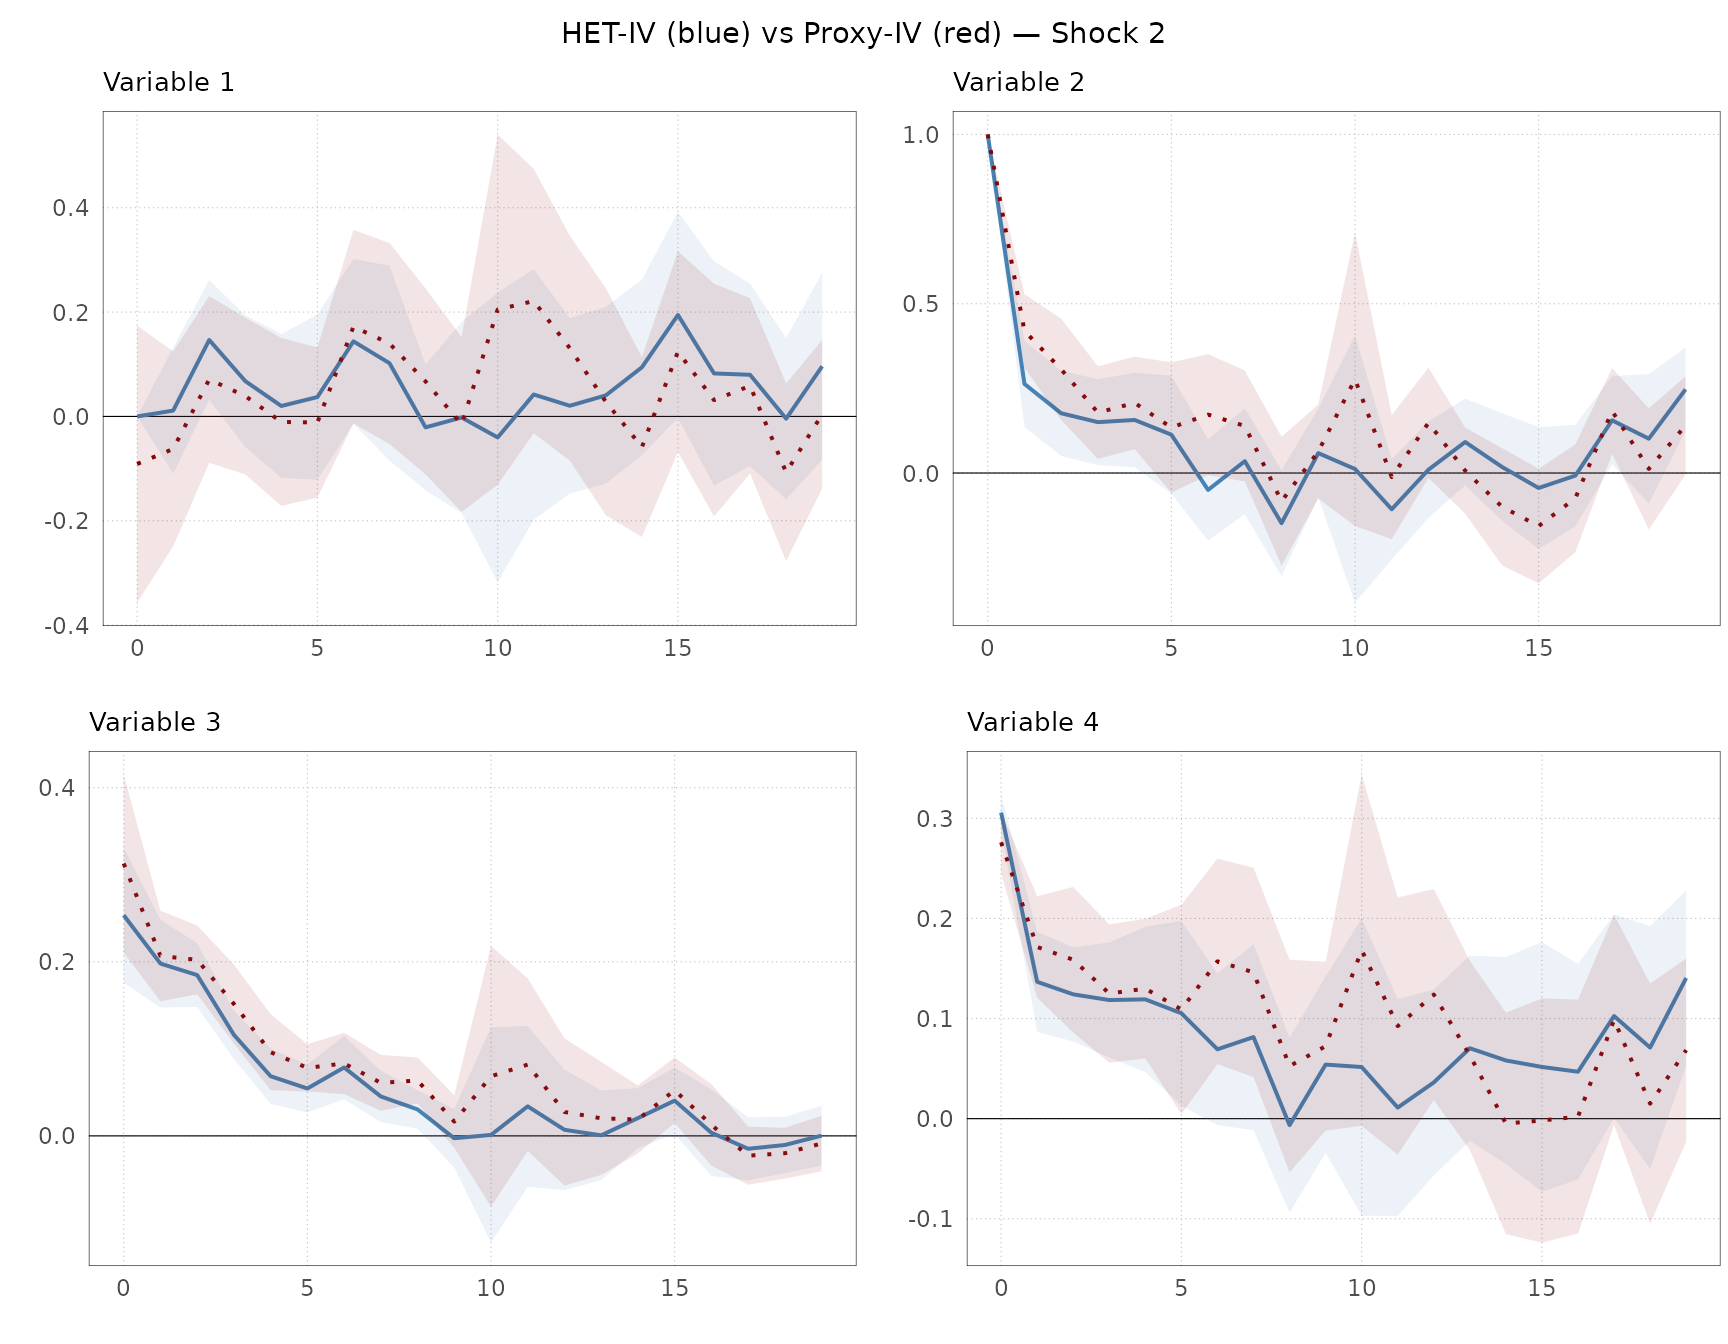
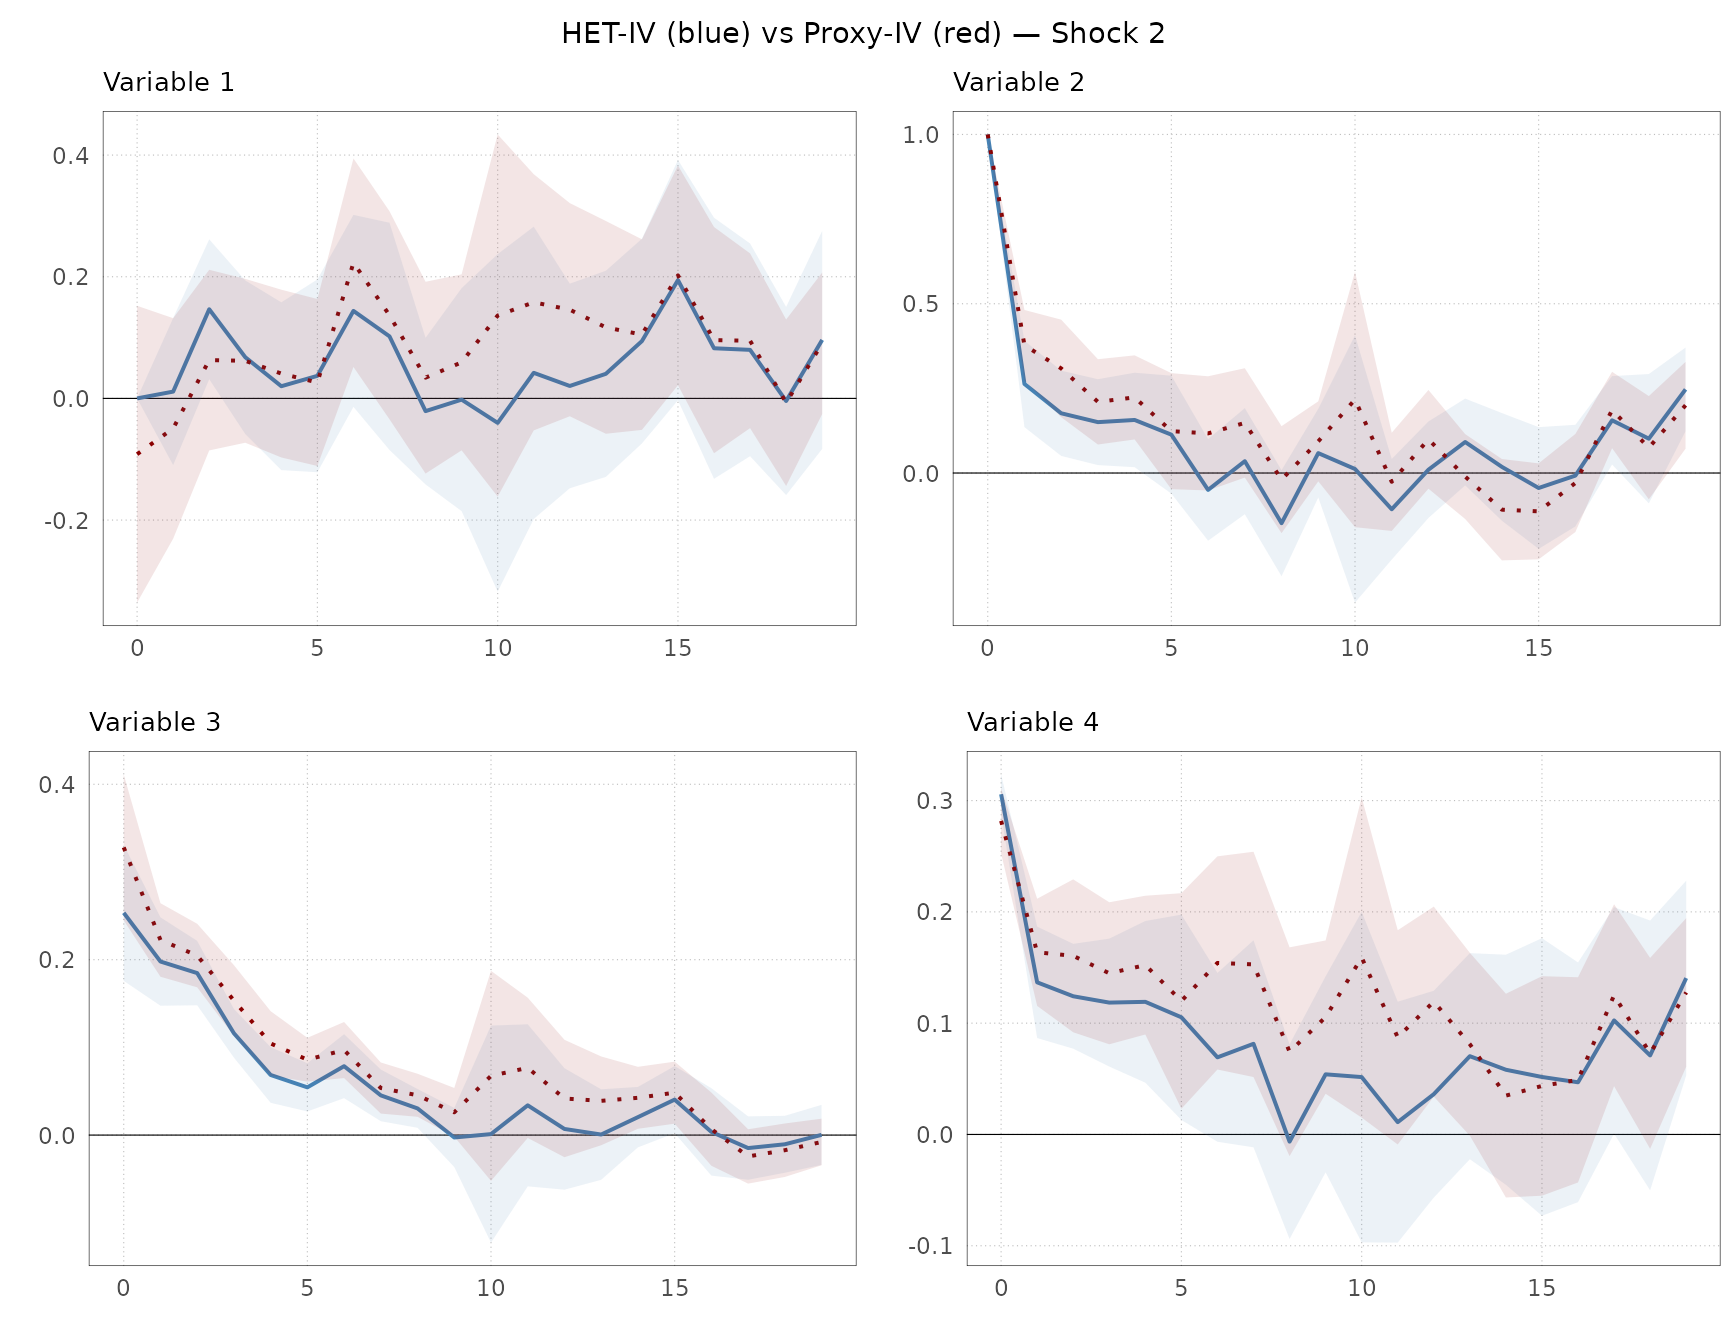
Deploying to gh-pages from @ dankaufmann/hetiv@41c44fcd3f7d435dfc71096a52220f36b74cb89f 🚀

diff --git a/articles/hetiv-introduction.html b/articles/hetiv-introduction.html
@@ -162,9 +162,8 @@ days and 0 on control days.</p>
 <span>  Nevn <span class="op">=</span> <span class="fl">10</span>, P <span class="op">=</span> <span class="va">P</span>, eDist <span class="op">=</span> <span class="fl">0</span>, seed <span class="op">=</span> <span class="fl">42</span></span>
 <span><span class="op">)</span></span>
 <span></span>
-<span><span class="co"># Trim burn-in</span></span>
-<span><span class="va">y_data</span> <span class="op">&lt;-</span> <span class="va">sim</span><span class="op">$</span><span class="va">y</span><span class="op">[</span><span class="op">(</span><span class="va">Nbin</span> <span class="op">+</span> <span class="fl">1</span><span class="op">)</span><span class="op">:</span><span class="op">(</span><span class="va">Nobs</span> <span class="op">+</span> <span class="va">Nbin</span><span class="op">)</span>, <span class="op">]</span></span>
-<span><span class="va">Ind</span>    <span class="op">&lt;-</span> <span class="fu"><a href="https://rdrr.io/r/base/integer.html" class="external-link">as.integer</a></span><span class="op">(</span><span class="va">sim</span><span class="op">$</span><span class="va">IndE</span><span class="op">[</span><span class="op">(</span><span class="va">Nbin</span> <span class="op">+</span> <span class="fl">1</span><span class="op">)</span><span class="op">:</span><span class="op">(</span><span class="va">Nobs</span> <span class="op">+</span> <span class="va">Nbin</span><span class="op">)</span>, <span class="fl">1</span><span class="op">]</span><span class="op">)</span></span>
+<span><span class="va">y_data</span> <span class="op">&lt;-</span> <span class="va">sim</span><span class="op">$</span><span class="va">y</span></span>
+<span><span class="va">Ind</span>    <span class="op">&lt;-</span> <span class="fu"><a href="https://rdrr.io/r/base/integer.html" class="external-link">as.integer</a></span><span class="op">(</span><span class="va">sim</span><span class="op">$</span><span class="va">IndE</span><span class="op">[</span>, <span class="fl">1</span><span class="op">]</span><span class="op">)</span></span>
 <span></span>
 <span><span class="co"># Inject deterministic weekday variation into variables 3 and 4</span></span>
 <span><span class="va">y_data</span><span class="op">[</span>, <span class="fl">3</span><span class="op">]</span> <span class="op">&lt;-</span> <span class="va">y_data</span><span class="op">[</span>, <span class="fl">3</span><span class="op">]</span> <span class="op">+</span> <span class="fl">0.5</span> <span class="op">*</span> <span class="fu"><a href="https://rdrr.io/r/base/seq.html" class="external-link">seq_len</a></span><span class="op">(</span><span class="va">Nobs</span><span class="op">)</span> <span class="op"><a href="https://rdrr.io/r/base/Arithmetic.html" class="external-link">%%</a></span> <span class="fl">5</span></span>
@@ -178,9 +177,9 @@ high-frequency surprises are only observed on policy announcement
 days.</p>
 <div class="sourceCode" id="cb2"><pre class="downlit sourceCode r">
 <code class="sourceCode R"><span><span class="co"># RNG state after simulatedata(seed = 42) is deterministic, so no extra seed needed</span></span>
-<span><span class="va">e_proxy</span>       <span class="op">&lt;-</span> <span class="va">sim</span><span class="op">$</span><span class="va">eE</span><span class="op">[</span><span class="op">(</span><span class="va">Nbin</span> <span class="op">+</span> <span class="fl">1</span><span class="op">)</span><span class="op">:</span><span class="op">(</span><span class="va">Nobs</span> <span class="op">+</span> <span class="va">Nbin</span><span class="op">)</span>, <span class="op">]</span></span>
-<span><span class="va">e_proxy</span><span class="op">[</span>, <span class="fl">1</span><span class="op">]</span>  <span class="op">&lt;-</span> <span class="va">e_proxy</span><span class="op">[</span>, <span class="fl">1</span><span class="op">]</span> <span class="op">+</span> <span class="fu"><a href="https://rdrr.io/r/stats/Normal.html" class="external-link">rnorm</a></span><span class="op">(</span><span class="va">Nobs</span>, sd <span class="op">=</span> <span class="fl">1</span><span class="op">)</span></span>
-<span><span class="va">e_proxy</span><span class="op">[</span>, <span class="fl">2</span><span class="op">]</span>  <span class="op">&lt;-</span> <span class="va">e_proxy</span><span class="op">[</span>, <span class="fl">2</span><span class="op">]</span> <span class="op">+</span> <span class="fu"><a href="https://rdrr.io/r/stats/Normal.html" class="external-link">rnorm</a></span><span class="op">(</span><span class="va">Nobs</span>, sd <span class="op">=</span> <span class="fl">1</span><span class="op">)</span></span>
+<span><span class="va">e_proxy</span>       <span class="op">&lt;-</span> <span class="va">sim</span><span class="op">$</span><span class="va">eE</span></span>
+<span><span class="va">e_proxy</span><span class="op">[</span>, <span class="fl">1</span><span class="op">]</span>  <span class="op">&lt;-</span> <span class="va">e_proxy</span><span class="op">[</span>, <span class="fl">1</span><span class="op">]</span> <span class="op">+</span> <span class="fu"><a href="https://rdrr.io/r/stats/Normal.html" class="external-link">rnorm</a></span><span class="op">(</span><span class="va">Nobs</span>, sd <span class="op">=</span> <span class="fl">0.3</span><span class="op">)</span></span>
+<span><span class="va">e_proxy</span><span class="op">[</span>, <span class="fl">2</span><span class="op">]</span>  <span class="op">&lt;-</span> <span class="va">e_proxy</span><span class="op">[</span>, <span class="fl">2</span><span class="op">]</span> <span class="op">+</span> <span class="fu"><a href="https://rdrr.io/r/stats/Normal.html" class="external-link">rnorm</a></span><span class="op">(</span><span class="va">Nobs</span>, sd <span class="op">=</span> <span class="fl">0.3</span><span class="op">)</span></span>
 <span><span class="va">e_proxy</span><span class="op">[</span><span class="va">Ind</span> <span class="op">==</span> <span class="fl">0</span>, <span class="op">]</span> <span class="op">&lt;-</span> <span class="cn">NA</span></span></code></pre></div>
 </div>
 <div class="section level2">
@@ -332,22 +331,22 @@ specifications</caption>
 <td align="right">0.5</td>
 <td align="right">0.53</td>
 <td align="right">0.46</td>
-<td align="right">0.53</td>
-<td align="right">0.53</td>
+<td align="right">0.55</td>
+<td align="right">0.55</td>
 </tr>
 <tr class="odd">
 <td align="right">0.3</td>
 <td align="right">0.46</td>
 <td align="right">0.29</td>
-<td align="right">0.28</td>
-<td align="right">0.28</td>
+<td align="right">0.29</td>
+<td align="right">0.29</td>
 </tr>
 <tr class="even">
 <td align="right">0.2</td>
 <td align="right">0.19</td>
 <td align="right">0.19</td>
-<td align="right">0.22</td>
-<td align="right">0.22</td>
+<td align="right">0.23</td>
+<td align="right">0.23</td>
 </tr>
 </tbody>
 </table>
@@ -397,15 +396,15 @@ specifications</caption>
 <td align="right">0.4</td>
 <td align="right">0.13</td>
 <td align="right">0.25</td>
-<td align="right">0.31</td>
-<td align="right">0.32</td>
+<td align="right">0.33</td>
+<td align="right">0.34</td>
 </tr>
 <tr class="even">
 <td align="right">0.3</td>
 <td align="right">0.27</td>
 <td align="right">0.31</td>
 <td align="right">0.28</td>
-<td align="right">0.28</td>
+<td align="right">0.29</td>
 </tr>
 </tbody>
 </table>
@@ -562,7 +561,7 @@ residuals <code>et</code>.</p>
 <p>We assess the accuracy of the prediction comparing them to the true
 event shocksfrom the DGP.</p>
 <div class="sourceCode" id="cb14"><pre class="downlit sourceCode r">
-<code class="sourceCode R"><span><span class="va">true_shocks</span> <span class="op">&lt;-</span> <span class="va">sim</span><span class="op">$</span><span class="va">eE</span><span class="op">[</span><span class="op">(</span><span class="va">Nbin</span> <span class="op">+</span> <span class="fl">1</span><span class="op">)</span><span class="op">:</span><span class="op">(</span><span class="va">Nobs</span> <span class="op">+</span> <span class="va">Nbin</span><span class="op">)</span>, <span class="op">]</span></span>
+<code class="sourceCode R"><span><span class="va">true_shocks</span> <span class="op">&lt;-</span> <span class="va">sim</span><span class="op">$</span><span class="va">eE</span></span>
 <span></span>
 <span><span class="va">cor_df1</span><span class="op">&lt;-</span> <span class="fu"><a href="https://rdrr.io/r/base/data.frame.html" class="external-link">data.frame</a></span><span class="op">(</span></span>
 <span>    True       <span class="op">=</span> <span class="va">true_shocks</span><span class="op">[</span>, <span class="fl">1</span><span class="op">]</span>,</span>
@@ -611,11 +610,11 @@ event shocksfrom the DGP.</p>
 <tbody><tr class="odd">
 <td align="left">True</td>
 <td align="right">1</td>
-<td align="right">0.91</td>
+<td align="right">0.99</td>
 <td align="right">0.86</td>
 <td align="right">1</td>
-<td align="right">1</td>
-<td align="right">1</td>
+<td align="right">0.99</td>
+<td align="right">0.99</td>
 </tr></tbody>
 </table>
 <div class="sourceCode" id="cb15"><pre class="downlit sourceCode r">
@@ -649,11 +648,11 @@ event shocksfrom the DGP.</p>
 <tbody><tr class="odd">
 <td align="left">True</td>
 <td align="right">1</td>
-<td align="right">0.8</td>
+<td align="right">0.98</td>
 <td align="right">0.56</td>
 <td align="right">0.94</td>
-<td align="right">0.96</td>
-<td align="right">0.96</td>
+<td align="right">0.99</td>
+<td align="right">0.98</td>
 </tr></tbody>
 </table>
 <p>The correlation between the true shocks and the proxy is lower than
@@ -681,7 +680,10 @@ expected by <code><a href="../reference/gweaktest.html">gweaktest()</a></code>, 
 deterministic controls used in estimation. The code below extracts the
 relevant columns from the <code>WeakData</code> data frame and runs the
 weak instrument test for each of the four specifications. The results
-are then compiled into a table for easy comparison.</p>
+are then compiled into a table for easy comparison. Note that we use EHW
+instead of Newey-West standard errors, because, conditional on the
+covariates, we know that the shocks are serially uncorrelated. If in
+doubt, use NW option.</p>
 <div class="sourceCode" id="cb16"><pre class="downlit sourceCode r">
 <code class="sourceCode R"><span><span class="co"># Helper: extract y, Y, X, Z from WeakData and run gweaktest</span></span>
 <span><span class="va">run_weaktest</span> <span class="op">&lt;-</span> <span class="kw">function</span><span class="op">(</span><span class="va">weakdata</span>, <span class="va">E</span><span class="op">)</span> <span class="op">{</span></span>
@@ -696,7 +698,7 @@ are then compiled into a table for easy comparison.</p>
 <span>  <span class="va">ctrl</span>  <span class="op">&lt;-</span> <span class="fu"><a href="https://rdrr.io/r/base/startsWith.html" class="external-link">startsWith</a></span><span class="op">(</span><span class="fu"><a href="https://rdrr.io/r/base/colnames.html" class="external-link">colnames</a></span><span class="op">(</span><span class="va">weakdata</span><span class="op">)</span>, <span class="st">"o"</span><span class="op">)</span> <span class="op">|</span> <span class="fu"><a href="https://rdrr.io/r/base/startsWith.html" class="external-link">startsWith</a></span><span class="op">(</span><span class="fu"><a href="https://rdrr.io/r/base/colnames.html" class="external-link">colnames</a></span><span class="op">(</span><span class="va">weakdata</span><span class="op">)</span>, <span class="st">"x"</span><span class="op">)</span></span>
 <span>  <span class="va">X</span>     <span class="op">&lt;-</span> <span class="kw">if</span> <span class="op">(</span><span class="fu"><a href="https://rdrr.io/r/base/any.html" class="external-link">any</a></span><span class="op">(</span><span class="va">ctrl</span><span class="op">)</span><span class="op">)</span> <span class="fu"><a href="https://rdrr.io/r/base/cbind.html" class="external-link">cbind</a></span><span class="op">(</span><span class="va">weakdata</span><span class="op">[</span>, <span class="va">ctrl</span><span class="op">]</span>, <span class="fu"><a href="https://rdrr.io/r/base/matrix.html" class="external-link">matrix</a></span><span class="op">(</span><span class="fl">1</span>, <span class="fu"><a href="https://rdrr.io/r/base/nrow.html" class="external-link">nrow</a></span><span class="op">(</span><span class="va">weakdata</span><span class="op">)</span>, <span class="fl">1</span><span class="op">)</span><span class="op">)</span> <span class="kw">else</span> <span class="fu"><a href="https://rdrr.io/r/base/matrix.html" class="external-link">matrix</a></span><span class="op">(</span><span class="fu"><a href="https://rdrr.io/r/base/numeric.html" class="external-link">numeric</a></span><span class="op">(</span><span class="fl">0</span><span class="op">)</span>, <span class="fu"><a href="https://rdrr.io/r/base/nrow.html" class="external-link">nrow</a></span><span class="op">(</span><span class="va">weakdata</span><span class="op">)</span>, <span class="fl">0</span><span class="op">)</span></span>
 <span>   </span>
-<span>  <span class="fu"><a href="../reference/gweaktest.html">gweaktest</a></span><span class="op">(</span><span class="va">y</span>, <span class="va">Y</span>, <span class="va">X</span>, <span class="va">Z</span>, cov_type <span class="op">=</span> <span class="st">"NW"</span><span class="op">)</span></span>
+<span>  <span class="fu"><a href="../reference/gweaktest.html">gweaktest</a></span><span class="op">(</span><span class="va">y</span>, <span class="va">Y</span>, <span class="va">X</span>, <span class="va">Z</span>, cov_type <span class="op">=</span> <span class="st">"EHW"</span><span class="op">)</span></span>
 <span><span class="op">}</span></span>
 <span></span>
 <span><span class="va">specs</span> <span class="op">&lt;-</span> <span class="fu"><a href="https://rdrr.io/r/base/list.html" class="external-link">list</a></span><span class="op">(</span></span>
@@ -747,31 +749,31 @@ eigenvalue test)</caption>
 <tbody>
 <tr class="odd">
 <td align="left">HET-IV, no controls</td>
-<td align="right">27.28</td>
-<td align="right">99.22</td>
+<td align="right">15.94</td>
+<td align="right">37.11</td>
 <td align="right">NaN</td>
 <td align="left">No</td>
 </tr>
 <tr class="even">
 <td align="left">HET-IV, with controls</td>
-<td align="right">142.57</td>
-<td align="right">60.47</td>
+<td align="right">89.08</td>
+<td align="right">47.62</td>
 <td align="right">NaN</td>
 <td align="left">Yes</td>
 </tr>
 <tr class="odd">
 <td align="left">Proxy-IV, with controls</td>
-<td align="right">28.56</td>
-<td align="right">43.80</td>
+<td align="right">30.57</td>
+<td align="right">21.77</td>
 <td align="right">NaN</td>
-<td align="left">No</td>
+<td align="left">Yes</td>
 </tr>
 <tr class="even">
 <td align="left">Proxy-IV, with controls + recursive restriction</td>
-<td align="right">28.56</td>
-<td align="right">43.80</td>
+<td align="right">30.57</td>
+<td align="right">21.77</td>
 <td align="right">NaN</td>
-<td align="left">No</td>
+<td align="left">Yes</td>
 </tr>
 </tbody>
 </table>

diff --git a/reference/simulatedata.html b/reference/simulatedata.html
@@ -70,11 +70,13 @@ periods). The shock distribution can be normal, Student-t, or GARCH(1,1).</p>
 
 
 <dt id="arg-nobs">Nobs<a class="anchor" aria-label="anchor" href="#arg-nobs"></a></dt>
-<dd><p>Number of observations to retain (after burn-in).</p></dd>
+<dd><p>Number of observations to retain after burn-in. The returned
+data have exactly <code>Nobs</code> rows.</p></dd>
 
 
 <dt id="arg-nbin">Nbin<a class="anchor" aria-label="anchor" href="#arg-nbin"></a></dt>
-<dd><p>Number of burn-in observations discarded at the start.</p></dd>
+<dd><p>Number of burn-in observations. These are simulated to
+initialise the VAR but are discarded before returning.</p></dd>
 
 
 <dt id="arg-n">N<a class="anchor" aria-label="anchor" href="#arg-n"></a></dt>
@@ -113,19 +115,19 @@ Use <code>NA</code> to skip seeding.</p></dd>
     <div class="section level2">
     <h2 id="value">Value<a class="anchor" aria-label="anchor" href="#value"></a></h2>
     <p>A named list with components:</p><dl><dt>y</dt>
-<dd><p>Simulated VAR data, dimension <code>(Nobs + Nbin) x N</code>.</p></dd>
+<dd><p>Simulated VAR data, dimension <code>Nobs x N</code> (burn-in discarded).</p></dd>
 
 <dt>IndE</dt>
-<dd><p>Event indicator vector, length <code>Nobs + Nbin</code>.</p></dd>
+<dd><p>Event indicator matrix, dimension <code>Nobs x 1</code>.</p></dd>
 
 <dt>eR</dt>
-<dd><p>Simulated regular shocks, dimension <code>(Nobs + Nbin) x R</code>.</p></dd>
+<dd><p>Simulated regular shocks, dimension <code>Nobs x R</code>.</p></dd>
 
 <dt>eE</dt>
-<dd><p>Simulated event shocks, dimension <code>(Nobs + Nbin) x E</code>.</p></dd>
+<dd><p>Simulated event shocks, dimension <code>Nobs x E</code>.</p></dd>
 
 <dt>e</dt>
-<dd><p>Composite structural shocks, dimension <code>(Nobs + Nbin) x N</code>.</p></dd>
+<dd><p>Composite structural shocks, dimension <code>Nobs x N</code>.</p></dd>
 
 <dt>Phi</dt>
 <dd><p>VAR coefficient array (returned unchanged).</p></dd>

diff --git a/articles/hetiv-introduction.md b/articles/hetiv-introduction.md
@@ -92,9 +92,8 @@ sim  <- simulatedata(
   Nevn = 10, P = P, eDist = 0, seed = 42
 )
 
-# Trim burn-in
-y_data <- sim$y[(Nbin + 1):(Nobs + Nbin), ]
-Ind    <- as.integer(sim$IndE[(Nbin + 1):(Nobs + Nbin), 1])
+y_data <- sim$y
+Ind    <- as.integer(sim$IndE[, 1])
 
 # Inject deterministic weekday variation into variables 3 and 4
 y_data[, 3] <- y_data[, 3] + 0.5 * seq_len(Nobs) %% 5
@@ -111,9 +110,9 @@ surprises are only observed on policy announcement days.
 ``` r
 
 # RNG state after simulatedata(seed = 42) is deterministic, so no extra seed needed
-e_proxy       <- sim$eE[(Nbin + 1):(Nobs + Nbin), ]
-e_proxy[, 1]  <- e_proxy[, 1] + rnorm(Nobs, sd = 1)
-e_proxy[, 2]  <- e_proxy[, 2] + rnorm(Nobs, sd = 1)
+e_proxy       <- sim$eE
+e_proxy[, 1]  <- e_proxy[, 1] + rnorm(Nobs, sd = 0.3)
+e_proxy[, 2]  <- e_proxy[, 2] + rnorm(Nobs, sd = 0.3)
 e_proxy[Ind == 0, ] <- NA
 ```
 
@@ -246,9 +245,9 @@ knitr::kable(
 | True | HET-IV without controls | HET-IV with controls | Proxy-IV with controls | Proxy-IV with recursive restriction |
 |---:|---:|---:|---:|---:|
 | 1.0 | 1.00 | 1.00 | 1.00 | 1.00 |
-| 0.5 | 0.53 | 0.46 | 0.53 | 0.53 |
-| 0.3 | 0.46 | 0.29 | 0.28 | 0.28 |
-| 0.2 | 0.19 | 0.19 | 0.22 | 0.22 |
+| 0.5 | 0.53 | 0.46 | 0.55 | 0.55 |
+| 0.3 | 0.46 | 0.29 | 0.29 | 0.29 |
+| 0.2 | 0.19 | 0.19 | 0.23 | 0.23 |
 
 Impact matrix estimates (Psi) for shock 1 across different
 specifications {.table}
@@ -270,8 +269,8 @@ knitr::kable(
 |---:|---:|---:|---:|---:|
 | 0.0 | 0.00 | 0.00 | -0.09 | 0.00 |
 | 1.0 | 1.00 | 1.00 | 1.00 | 1.00 |
-| 0.4 | 0.13 | 0.25 | 0.31 | 0.32 |
-| 0.3 | 0.27 | 0.31 | 0.28 | 0.28 |
+| 0.4 | 0.13 | 0.25 | 0.33 | 0.34 |
+| 0.3 | 0.27 | 0.31 | 0.28 | 0.29 |
 
 Impact matrix estimates (Psi) for shock 2 across different
 specifications {.table}
@@ -447,7 +446,7 @@ event shocksfrom the DGP.
 
 ``` r
 
-true_shocks <- sim$eE[(Nbin + 1):(Nobs + Nbin), ]
+true_shocks <- sim$eE
 
 cor_df1<- data.frame(
     True       = true_shocks[, 1],
@@ -476,7 +475,7 @@ knitr::kable(
 
 |  | True | Proxy | HET-IV without controls | HET-IV with controls | Proxy-IV with controls | Proxy-IV with recursive restriction |
 |:---|---:|---:|---:|---:|---:|---:|
-| True | 1 | 0.91 | 0.86 | 1 | 1 | 1 |
+| True | 1 | 0.99 | 0.86 | 1 | 0.99 | 0.99 |
 
 Correlation of predicted shocks with true shocks for shock 2 {.table}
 
@@ -492,7 +491,7 @@ knitr::kable(
 
 |  | True | Proxy | HET-IV without controls | HET-IV with controls | Proxy-IV with controls | Proxy-IV with recursive restriction |
 |:---|---:|---:|---:|---:|---:|---:|
-| True | 1 | 0.8 | 0.56 | 0.94 | 0.96 | 0.96 |
+| True | 1 | 0.98 | 0.56 | 0.94 | 0.99 | 0.98 |
 
 Correlation of predicted shocks with true shocks for shock 2 {.table}
 
@@ -523,7 +522,10 @@ contains the outcome and instrument columns in the form expected by
 along with any lagged and deterministic controls used in estimation. The
 code below extracts the relevant columns from the `WeakData` data frame
 and runs the weak instrument test for each of the four specifications.
-The results are then compiled into a table for easy comparison.
+The results are then compiled into a table for easy comparison. Note
+that we use EHW instead of Newey-West standard errors, because,
+conditional on the covariates, we know that the shocks are serially
+uncorrelated. If in doubt, use NW option.
 
 ``` r
 
@@ -540,7 +542,7 @@ run_weaktest <- function(weakdata, E) {
   ctrl  <- startsWith(colnames(weakdata), "o") | startsWith(colnames(weakdata), "x")
   X     <- if (any(ctrl)) cbind(weakdata[, ctrl], matrix(1, nrow(weakdata), 1)) else matrix(numeric(0), nrow(weakdata), 0)
    
-  gweaktest(y, Y, X, Z, cov_type = "NW")
+  gweaktest(y, Y, X, Z, cov_type = "EHW")
 }
 
 specs <- list(
@@ -578,10 +580,10 @@ knitr::kable(
 
 | Specification | Statistic | LM critical value | SY critical value | Strong instruments? |
 |:---|---:|---:|---:|:---|
-| HET-IV, no controls | 27.28 | 99.22 | NaN | No |
-| HET-IV, with controls | 142.57 | 60.47 | NaN | Yes |
-| Proxy-IV, with controls | 28.56 | 43.80 | NaN | No |
-| Proxy-IV, with controls + recursive restriction | 28.56 | 43.80 | NaN | No |
+| HET-IV, no controls | 15.94 | 37.11 | NaN | No |
+| HET-IV, with controls | 89.08 | 47.62 | NaN | Yes |
+| Proxy-IV, with controls | 30.57 | 21.77 | NaN | Yes |
+| Proxy-IV, with controls + recursive restriction | 30.57 | 21.77 | NaN | Yes |
 
 Weak instrument test results (Lewis-Mertens generalised minimum
 eigenvalue test) {.table}

diff --git a/reference/simulatedata.md b/reference/simulatedata.md
@@ -31,11 +31,13 @@ simulatedata(Phi, SigE, PsiE, PsiR, Nobs, Nbin, N, R, E, Nevn, P, eDist, seed)
 
 - Nobs:
 
-  Number of observations to retain (after burn-in).
+  Number of observations to retain after burn-in. The returned data have
+  exactly `Nobs` rows.
 
 - Nbin:
 
-  Number of burn-in observations discarded at the start.
+  Number of burn-in observations. These are simulated to initialise the
+  VAR but are discarded before returning.
 
 - N:
 
@@ -77,23 +79,23 @@ A named list with components:
 
 - y:
 
-  Simulated VAR data, dimension `(Nobs + Nbin) x N`.
+  Simulated VAR data, dimension `Nobs x N` (burn-in discarded).
 
 - IndE:
 
-  Event indicator vector, length `Nobs + Nbin`.
+  Event indicator matrix, dimension `Nobs x 1`.
 
 - eR:
 
-  Simulated regular shocks, dimension `(Nobs + Nbin) x R`.
+  Simulated regular shocks, dimension `Nobs x R`.
 
 - eE:
 
-  Simulated event shocks, dimension `(Nobs + Nbin) x E`.
+  Simulated event shocks, dimension `Nobs x E`.
 
 - e:
 
-  Composite structural shocks, dimension `(Nobs + Nbin) x N`.
+  Composite structural shocks, dimension `Nobs x N`.
 
 - Phi:
 